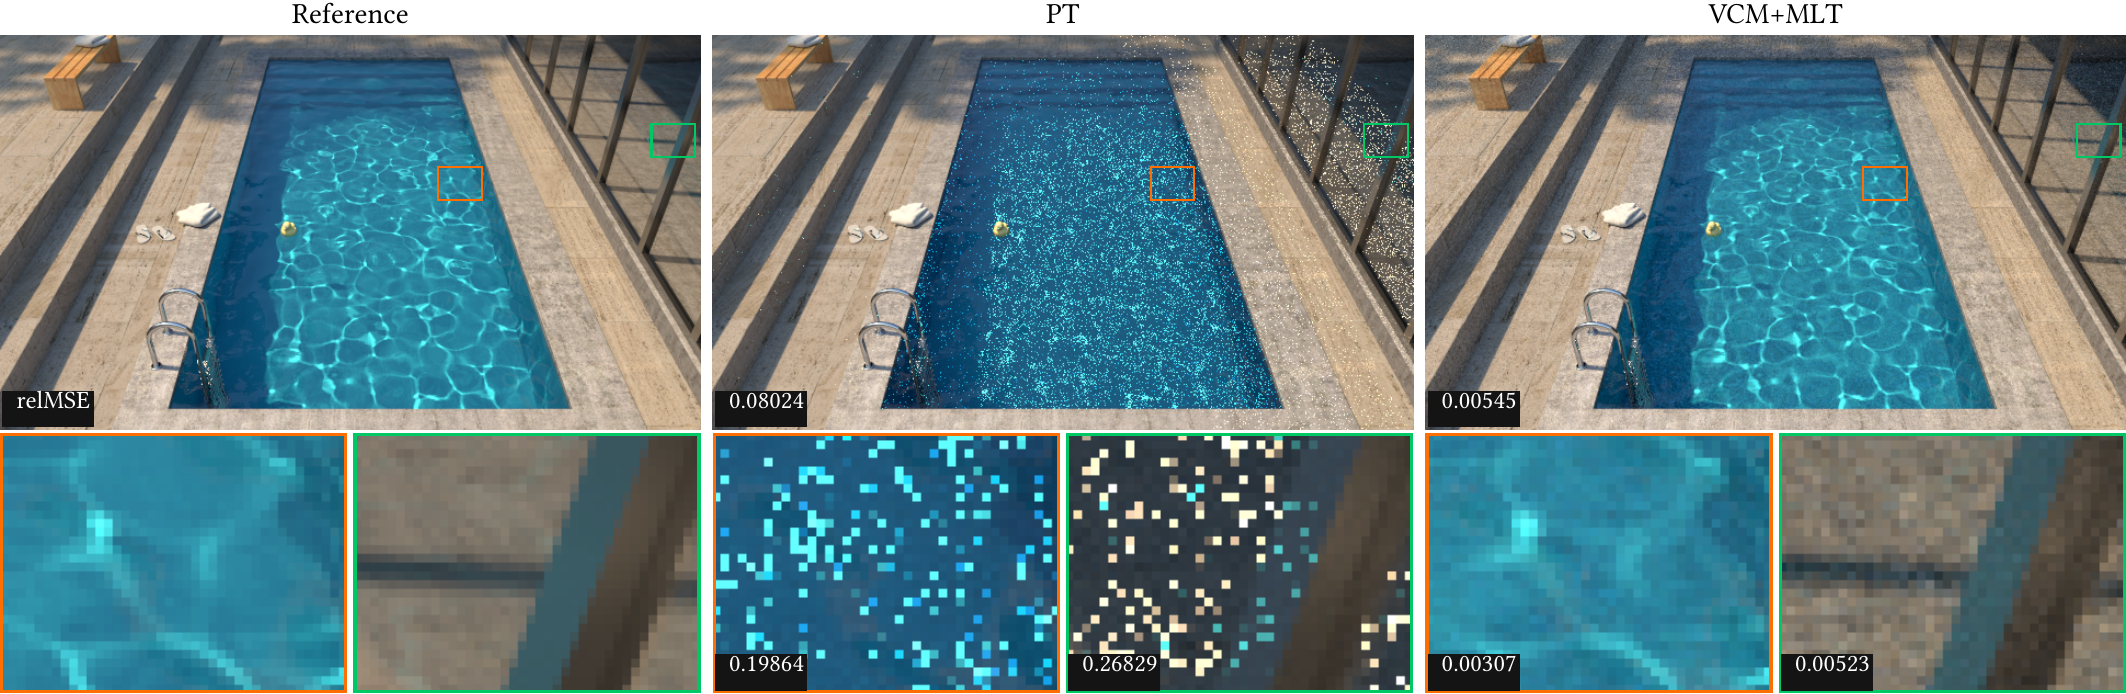
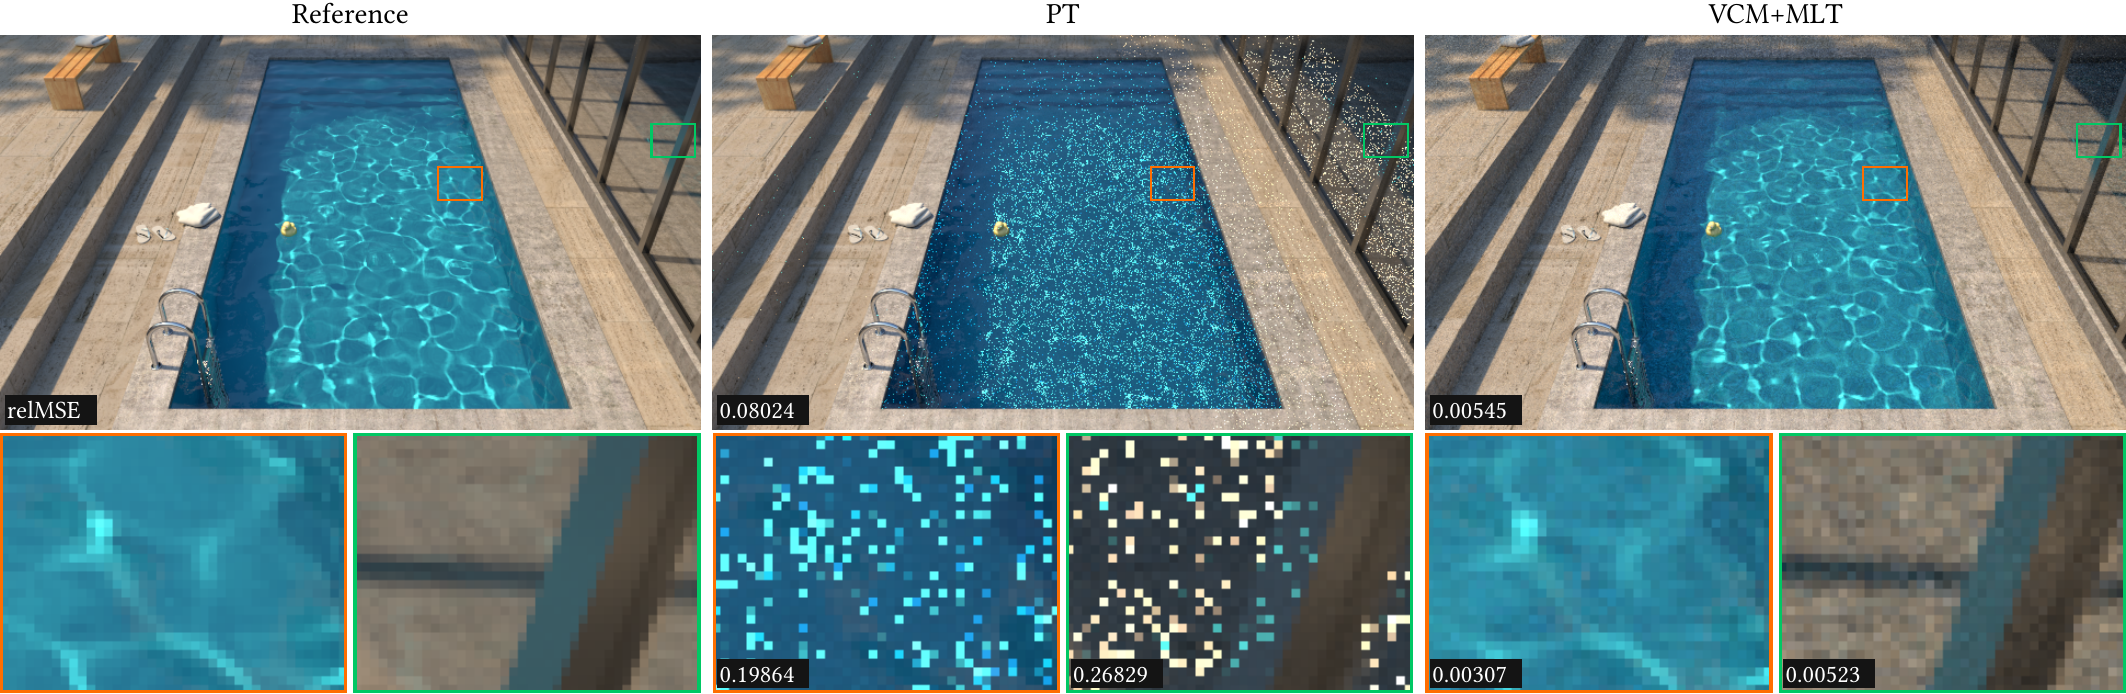
reduce label padding

diff --git a/examples/vertical_stack.py b/examples/vertical_stack.py
@@ -37,8 +37,8 @@ def get_error(method, cropbox=None):
     return str(round(rMSE, 5))
 
 def place_label(element, txt, pos='bottom_left'):
-    element.set_label(txt, pos, width_mm=7.8, height_mm=3.1, offset_mm=[0.2, 0.2],
-                fontsize=6, bg_color=[20,20,20], txt_color=[255,255,255], txt_padding_mm=1.2)
+    element.set_label(txt, pos, width_mm=7.8, height_mm=2.5, offset_mm=[0.4, 0.4],
+        fontsize=6, bg_color=[20,20,20], txt_color=[255,255,255], txt_padding_mm=0.2)
 
 # ---------- Horizontal Figure TOP ----------
 top_cols = len(method_filenames)
